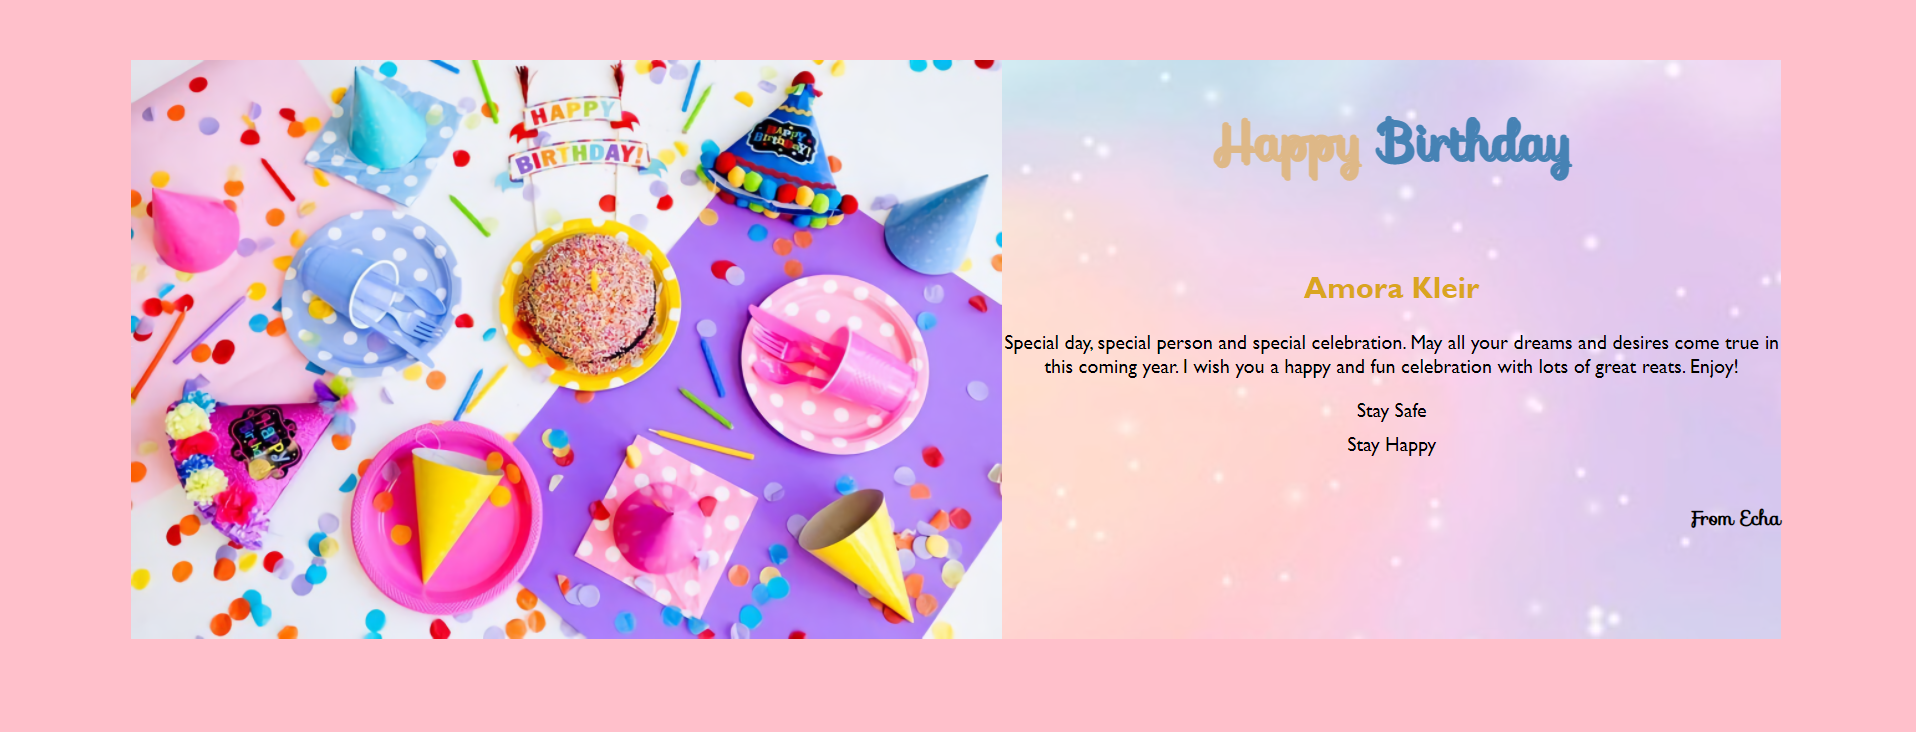
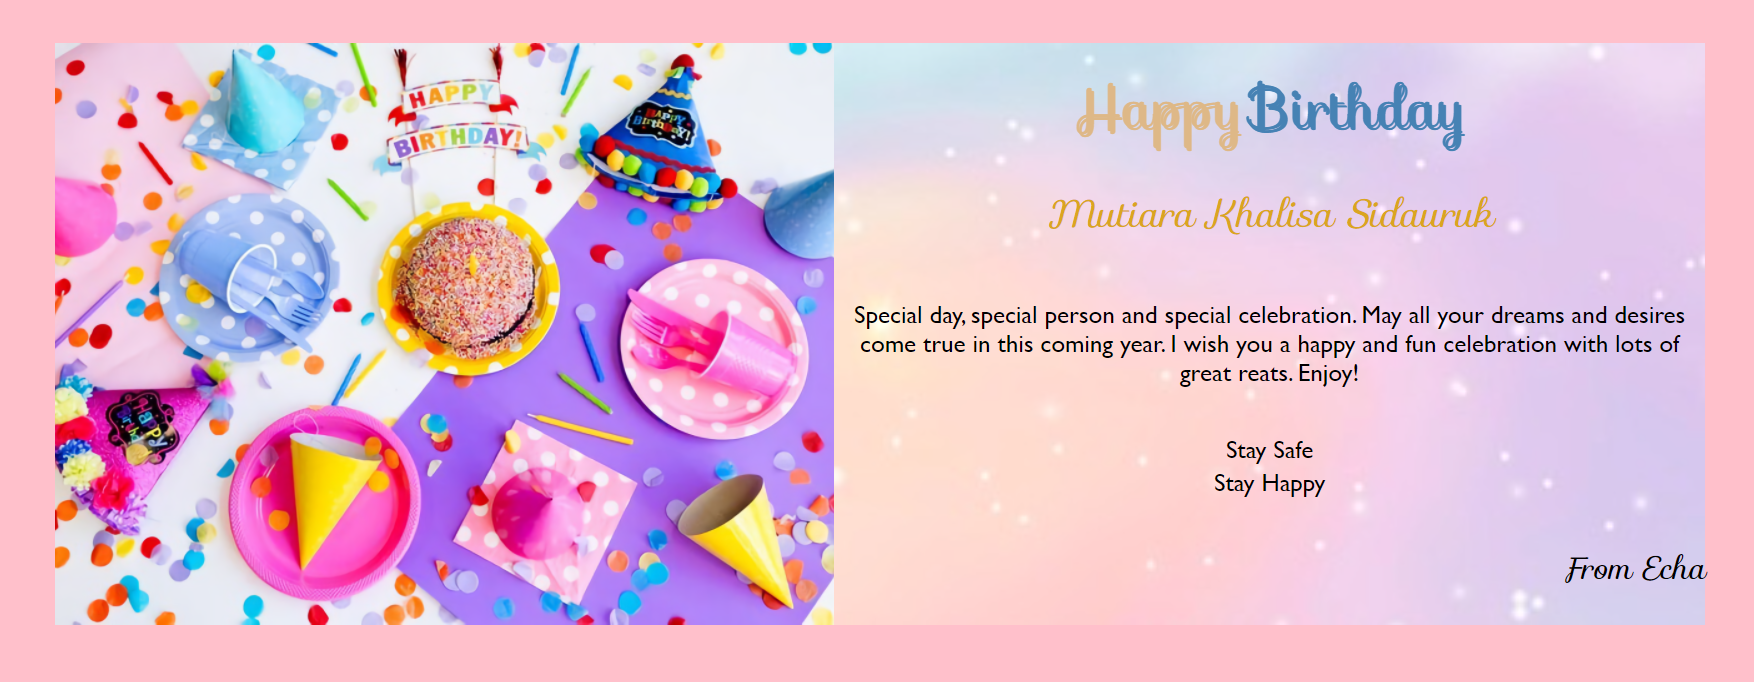
frontend 1

diff --git a/styles.css b/styles.css
@@ -24,13 +24,13 @@ html{
 
 .T1{
     color: #DEB887;
-    font-size: 50px;
+    font-size: 80px;
     text-shadow: 2px 2px;
 }
 
 .T2{
     color: 	steelblue;
-    font-size: 50px;
+    font-size: 80px;
     text-shadow: 2px 2px;
 }
 
@@ -39,7 +39,6 @@ html{
     color: #DAA520;
     font-size: 30px;
     font-style: italic;
-
 }
 
 .image{
@@ -57,6 +56,7 @@ html{
 .body{
     text-align: center;
     font-family: 'Gill Sans', 'Gill Sans MT', Calibri, 'Trebuchet MS', sans-serif; 
+    font-size: 20px;
 }
 
 .message{
@@ -64,17 +64,30 @@ html{
     grid-template-rows: 12px 15px 35px;
     justify-items: center;
     font-family: 'Gill Sans', 'Gill Sans MT', Calibri, 'Trebuchet MS', sans-serif; 
+    font-size: 20px;
 }
 
 .from{
     text-align: right;
     font-family: "Sofia", sans-serif;
-    font-size: 18px;
+    font-size: 25px;
     font-style: italic;
 }
 
-@media (min-device-width: 550px) {
+@media (min-device-width: 700px) {
     .general{
         flex-direction: row;
+    }
+    
+    .T1{
+        color: #DEB887;
+        font-size: 45px;
+        text-shadow: 2px 2px;
+    }
+    
+    .T2{
+        color: 	steelblue;
+        font-size: 45px;
+        text-shadow: 2px 2px;
     }
 }

diff --git a/index.html b/index.html
@@ -19,7 +19,7 @@
                     <span class="T1">Happy</span> <span class="T2"> Birthday</span>
                     <br>
                     <br>
-                    <span class="name">Amora Kleir</span>
+                    <span class="name">Mutiara Khalisa Sidauruk</span>
                     <br>
                     <br>
                 </p>
